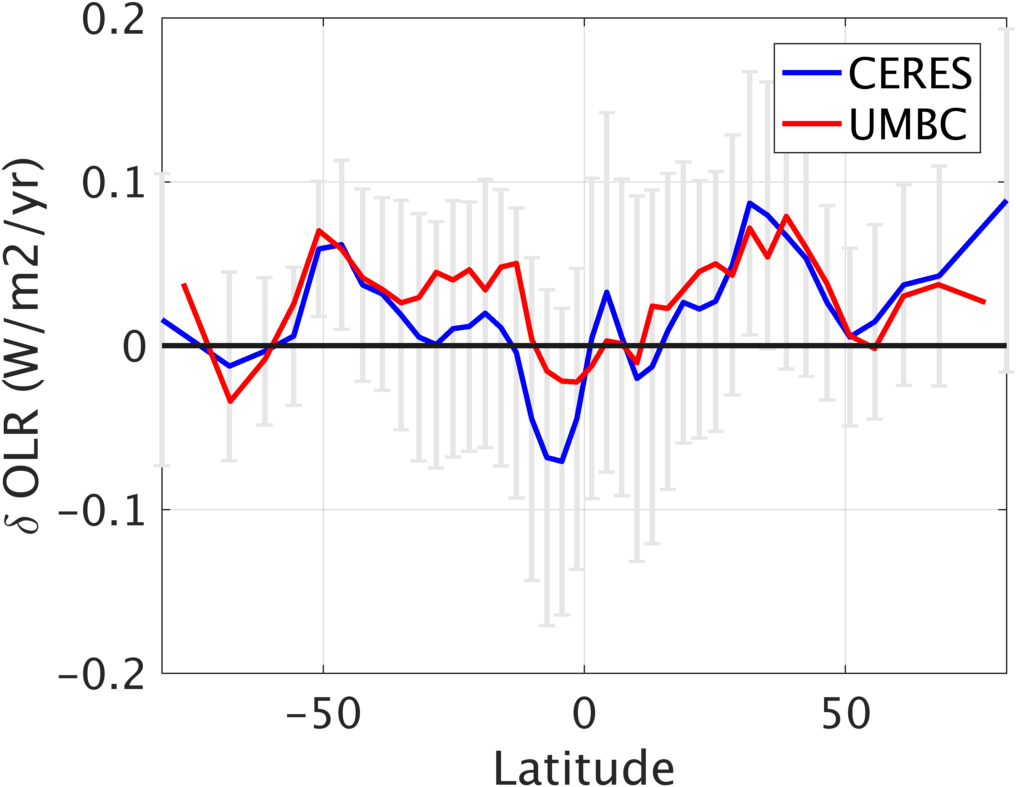
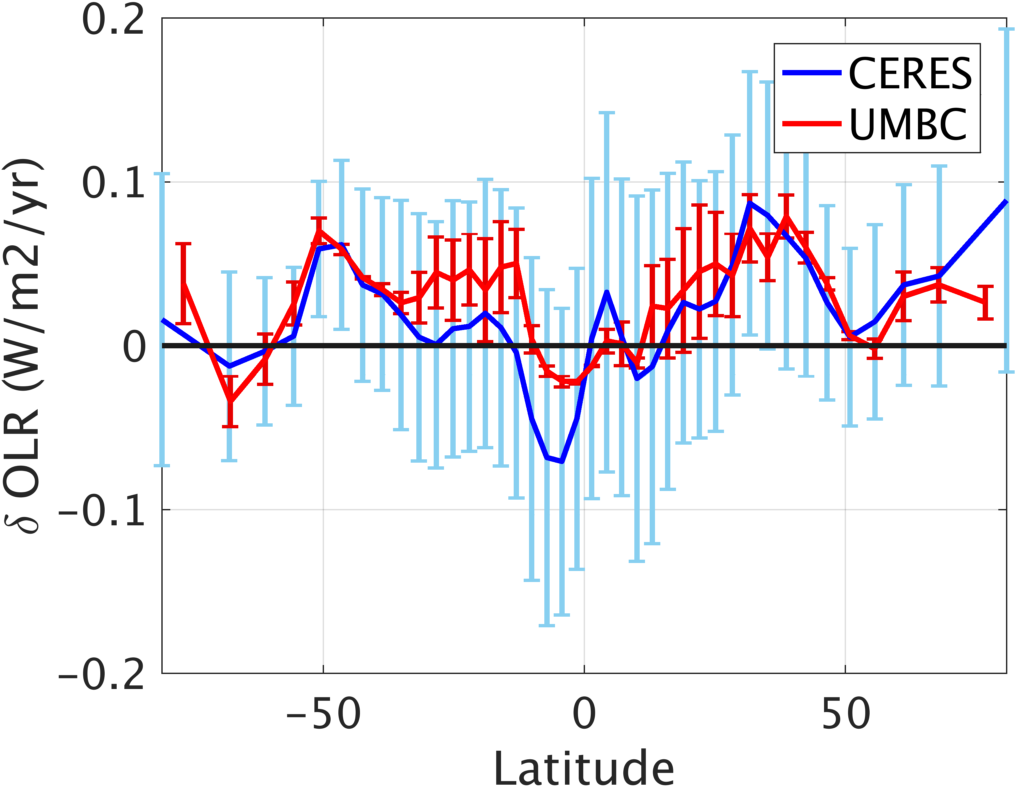
SSM : added in flux rate uncertainty estimate

Changed region(s): [[0.2136, 0.0305, 1.0, 0.7929], [0.1526, 0.2135, 0.1831, 0.6099]]

diff --git a/Flux/sergio_flux.tex b/Flux/sergio_flux.tex
@@ -242,9 +242,9 @@
   \frametitle{\textcolor{red}{\bf Comparison to CERES L3 rates}}
   RRTM OLR differences using UMBC trend retrievals.
   \begin{center}
-    \noindent\includegraphics[width=0.725\linewidth]{Figs/umbc_vs_ceres_fluxrates.pdf}
+    \noindent\includegraphics[width=0.7\linewidth]{Figs/umbc_vs_ceres_fluxrates.pdf}
   \end{center}
- Errorbars : TBD for next AIRS STM
+ Errorbars : Put in 5\% uncertainity for CO2 rates, and errorbars for T/WV/O3/ST/clouds from Larrabee; will improve this
 \end{frame}
 
 \begin{frame}
@@ -319,11 +319,12 @@
   \begin{itemize}
   \item Comparison of our trend retrievals to CERES OLR provides partial validation of our trends.
   \item RRTM allows us to dissect changes to OLR according to spectral region
-    \item TwoSlab fluxes "not too bad"!
-  % \item ERA TwoSlab cloud trends $\rightarrow$ RRTM : large change in cirrus fraction
+  \item TwoSlab fluxes "not too bad"!
+ % \item ERA TwoSlab cloud trends $\rightarrow$ RRTM : large change in cirrus fraction
   %       produces unrealistically large OLR changes
   \item UMBC Spectral Rates $\rightarrow$ Thermodynamic+Cloud rates \textcolor{red}{good agreement
-        with OLR rates from CERES}
+        with OLR rates from CERES}. 
+  \item Need to work more on errors \textcolor{red}{Note the rates are on order of 0.05 W/m2/yr while initial error estimate is about 5-10 times smaller}  
   \item To do list : try MRO clouds in RRTM ....
   \end{itemize}
 \end{frame}
